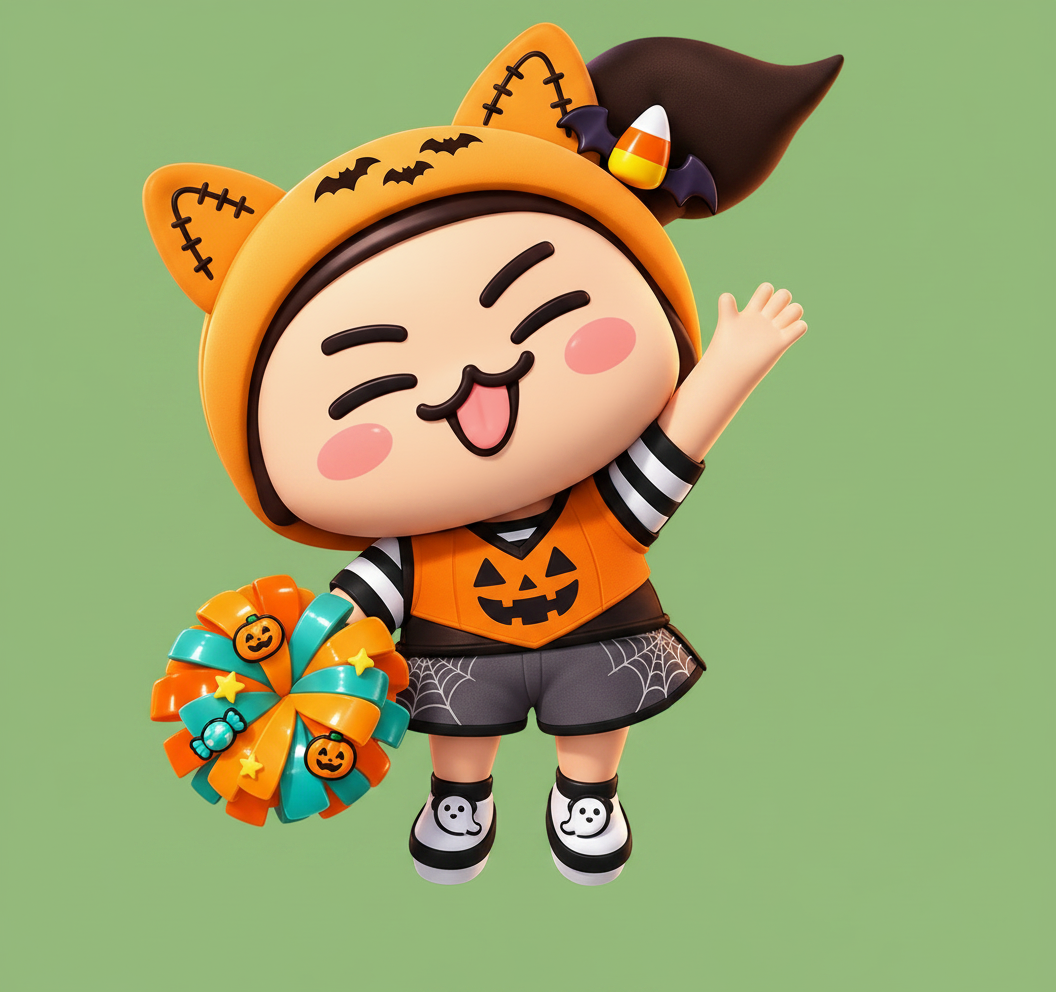
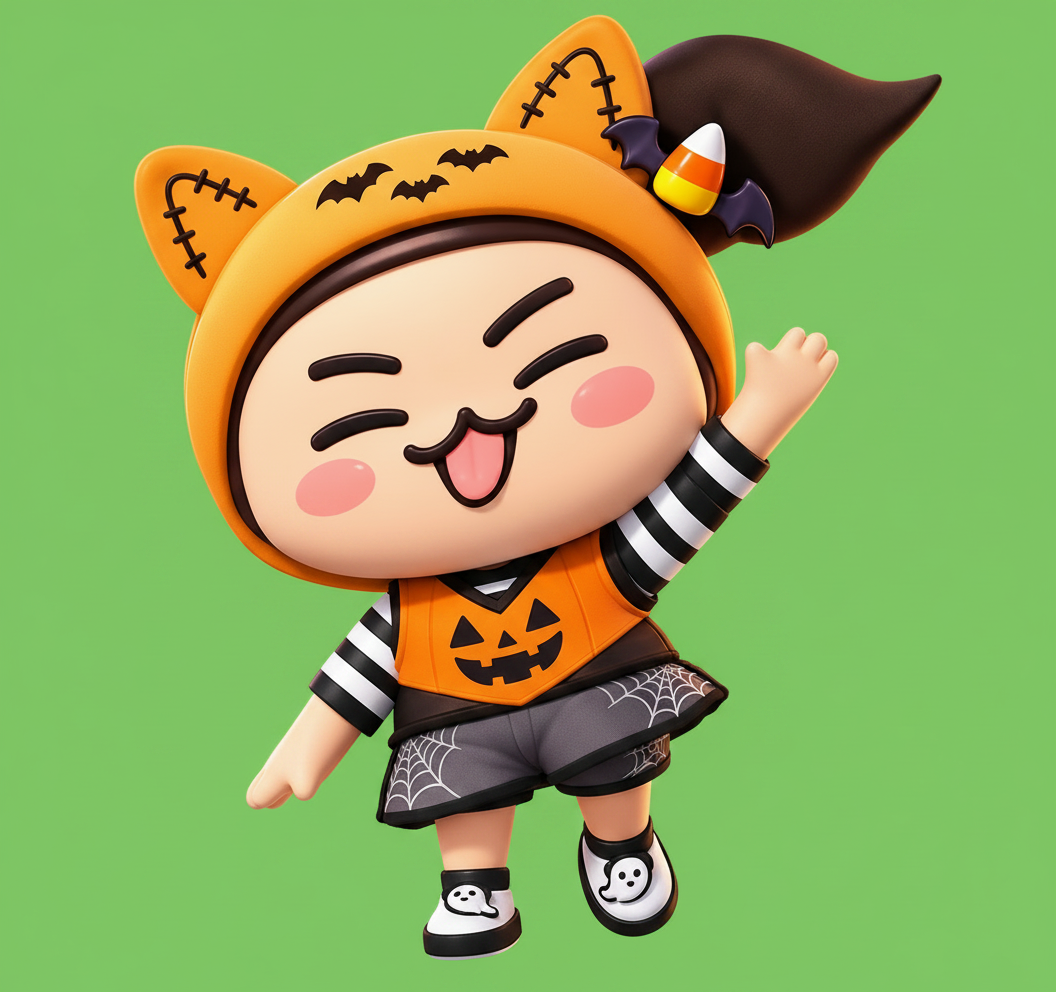
Drop the pom-poms from the poses, which frees the hands and the framing
The pom-poms were the widest part of the silhouette, and on a 9:16 frame
width is what binds, so they were forcing every shot wider than it wanted to
be. They also occupied both hands, which ruled out reaching, receiving or
holding anything. Regenerated the whole set without them: stand, jump,
reach, sit, present, wave and hold2, all with bare empty hands.

Two things the regeneration turned up:
- Naming the background by hex made the model paint "#00B144" into the
  frame. It is described in words now, with text explicitly excluded.
- The shot list can finally act: the doorstep shot reaches, the pump insert
  holds both palms up, and the hero shot raises the "?" bottle overhead.

Also fixes a plate that vanished from every shot: setPose still added the
per-pose `lift` after it was dropped from the table, so the plate's y went
NaN. It defaults to 0.

The product bottle is still composited from the source file and named in no
prompt; the poses ask for empty hands precisely so it can be placed rather
than drawn.

Claude-Session: https://claude.ai/code/session_017oDLcXHW4jPPj9EWyF8qhq

diff --git a/render/lib/charplate.js b/render/lib/charplate.js
@@ -6,17 +6,17 @@
 import * as THREE from 'three';
 
 export const PAL = { skin: 0xFCD9BE };
-const H0 = 3.07;                      // world height of the reference pose
+const H0 = 3.35;   // world height; poses are narrower without the pom-poms
 
 /* per-pose size trim, so the body reads the same when the arms move */
 export const POSES = {
-  source:  { url: '/assets/build/char_hw.png',       k: 1.00, lift: 0.00 },
-  run:     { url: '/assets/poses/cut/run.png',       k: 0.98, lift: 0.00 },
-  jumpbig: { url: '/assets/poses/cut/jumpbig.png',   k: 1.06, lift: 0.00 },
-  present: { url: '/assets/poses/cut/present.png',   k: 1.02, lift: 0.00 },
-  reach:   { url: '/assets/poses/cut/reach.png',     k: 0.96, lift: 0.00 },
-  sit:     { url: '/assets/poses/cut/sit.png',       k: 0.86, lift: 0.00 },
-  stand:   { url: '/assets/poses/cut/stand.png',     k: 0.92, lift: 0.00 }
+  stand:   { url: '/assets/poses/cut/stand.png',   k: 0.92 },
+  jump:    { url: '/assets/poses/cut/jump.png',    k: 1.00 },
+  reach:   { url: '/assets/poses/cut/reach.png',   k: 0.96 },
+  sit:     { url: '/assets/poses/cut/sit.png',     k: 0.80 },
+  present: { url: '/assets/poses/cut/present.png', k: 1.02 },
+  wave:    { url: '/assets/poses/cut/wave.png',    k: 0.96 },
+  hold2:   { url: '/assets/poses/cut/hold2.png',   k: 0.92 }
 };
 
 export async function loadCharacterPlate() {
@@ -48,7 +48,7 @@ export function buildCharacter(poses) {
   const root = new THREE.Group();
   const body = new THREE.Group(); root.add(body);
   const mat = new THREE.MeshBasicMaterial({
-    map: poses.source.tex, transparent: true, depthWrite: false, fog: false,
+    map: poses.stand.tex, transparent: true, depthWrite: false, fog: false,
     alphaTest: 0.02, side: THREE.DoubleSide
   });
   const plate = new THREE.Mesh(new THREE.PlaneGeometry(1, 1), mat);
@@ -60,19 +60,19 @@ export function buildCharacter(poses) {
   const hand = new THREE.Group(); body.add(hand);
   root.userData = { body, plate, mat, shadow, poses, cur: null, hands: [hand, hand],
                     poms: [], arms: [], legs: [] };
-  setPose(root, 'source');
+  setPose(root, 'stand');
   return root;
 }
 
 export function setPose(root, name) {
   const u = root.userData;
-  const p = u.poses[name] || u.poses.source;
+  const p = u.poses[name] || u.poses.stand;
   if (u.cur === name) return;
   u.cur = name;
   u.mat.map = p.tex; u.mat.needsUpdate = true;
   const h = H0 * p.k, w = h * p.w / p.h;
   u.plate.scale.set(w, h, 1);
-  u.plate.position.y = h / 2 + p.lift;
+  u.plate.position.y = h / 2 + (p.lift || 0);
   u.shadow.scale.set(w * 0.5, w * 0.19, 1);
   // the raised open hand in the "present" pose, for a prop to sit in
   u.hands[0].position.set(w * 0.30, h * 0.72, 0.03);

diff --git a/render/scene3d.html b/render/scene3d.html
@@ -308,13 +308,13 @@ function animChar(t,si){
     const drop=pr(lt,0.05,0.62), land=pr(lt,0.58,0.98);
     const idle=Math.max(0,lt-0.88), hop=Math.abs(Math.sin(idle*Math.PI/0.60));
     pos={x:0,y:lerp(9.5,0,eOut4(drop))+(drop>=1?hop*0.60:0),z:-8.0}; ry=0.08;
-    pose=Object.assign(pose,{pose:'source',squash:drop<1?0.28:lerp(-0.52,0,eOut(land))+hop*0.28,
+    pose=Object.assign(pose,{pose:'jump',squash:drop<1?0.28:lerp(-0.52,0,eOut(land))+hop*0.28,
       lean:-0.08+0.05*Math.sin(idle*3.0),headTilt:-0.11,
       armSpread:1.02+0.20*Math.sin(idle*5.2),legTuck:drop<1?0.9:clamp(hop*1.1),armFwd:-0.10});
   } else if(si===1){
     pos={x:lerp(0.6,-0.15,u),y:0,z:lerp(-19.0,-9.2,eIO(u))}; ry=0.05;
     const run=lt*7.2; pos.y=Math.abs(Math.sin(run))*0.28;
-    pose=Object.assign(pose,{pose:'run',squash:0.09*Math.sin(run*2),lean:-0.06,pitch:0.09,headTilt:-0.09,
+    pose=Object.assign(pose,{pose:'jump',squash:0.09*Math.sin(run*2),lean:-0.06,pitch:0.09,headTilt:-0.09,
       armSwing:0.30*Math.sin(run),legSwing:0.60*Math.sin(run),armSpread:0.80});
   } else if(si===2){
     pos={x:-0.60,y:0,z:-11.9}; ry=0.40;
@@ -329,17 +329,17 @@ function animChar(t,si){
   } else if(si===4){
     pos={x:5.30,y:0,z:-7.05}; ry=-0.30;
     const reach=eIO(pr(lt,0.35,1.35));
-    pose=Object.assign(pose,{pose:'reach',lean:-0.10,headTilt:-0.15,headYaw:-0.18,headPitch:0.28,
+    pose=Object.assign(pose,{pose:'hold2',lean:-0.10,headTilt:-0.15,headYaw:-0.18,headPitch:0.28,
       armLA:-0.26,armRA:lerp(1.0,1.62,reach),armRX:lerp(-0.25,-0.95,reach),squash:0.05*Math.sin(lt*3)});
   } else if(si===5){
     pos={x:0,y:0,z:-14.4}; ry=0.0;
     const cyc=(lt%0.92)/0.92, air=Math.sin(cyc*Math.PI); pos.y=air*1.80;
-    pose=Object.assign(pose,{pose:'jumpbig',squash:lerp(-0.40,0.30,clamp(air*1.6)),lean:-0.09+0.06*Math.sin(lt*2.4),
+    pose=Object.assign(pose,{pose:'jump',squash:lerp(-0.40,0.30,clamp(air*1.6)),lean:-0.09+0.06*Math.sin(lt*2.4),
       headTilt:-0.13,armSpread:1.14+0.22*air,armFwd:-0.18*air,legTuck:air*0.85});
   } else if(si===6){
     pos={x:0.02,y:0,z:-13.2}; ry=0.10;
     const b=Math.abs(Math.sin(lt*Math.PI/0.84)); pos.y=b*0.20;
-    pose=Object.assign(pose,{pose:'stand',squash:-0.08+b*0.17,lean:-0.10,headTilt:-0.14,
+    pose=Object.assign(pose,{pose:'wave',squash:-0.08+b*0.17,lean:-0.10,headTilt:-0.14,
       armSpread:0.98+0.18*Math.sin(lt*3.8)});
   } else if(si===7){
     pos={x:HERO_X,y:HERO_TOP,z:HERO_Z}; ry=0.04;

diff --git a/handoff/make_poses.py b/handoff/make_poses.py
@@ -24,17 +24,23 @@ KEEP = (
   "with the black jack-o'-lantern face, the same black-and-white striped sleeves, the same "
   "black shorts with the white cobweb print, the same white sneakers, and the same soft "
   "3D toy-figure shading and proportions. Do not restyle, do not open the eyes, do not "
-  "change any colour. Full body, facing the camera, centred, on a plain flat chroma green "
-  "(#00B140) background with no shadow, no floor and no props other than what is asked."
+  "change any colour. "
+  "REMOVE the pinwheel pom-poms entirely: the character holds nothing at all. Both hands "
+  "are bare, empty, small and rounded in the same toy style, with no object of any kind in "
+  "them and nothing resting against them. "
+  "Full body, facing the camera, centred, on a plain flat bright green screen background "
+  "with no shadow, no floor, no props and absolutely no text, letters, numbers or watermarks."
 )
 
 POSES = {
-  'run':    "Change only the pose: the character is running cheerfully toward the camera, one knee lifted, arms swinging, still holding the two pinwheel pom-poms.",
-  'reach':  "Change only the pose: the character leans forward and reaches one arm down and out toward something on the ground in front of it, head tilted down, the other arm still holding a pinwheel pom-pom.",
-  'stand':  "Change only the pose: the character stands still and upright with both feet on the ground, holding the two pinwheel pom-poms low at its sides.",
-  'present':"Change only the pose: the character stands and raises its right arm high with an open empty hand, palm up, presenting something that is not shown; the left arm holds a pinwheel pom-pom. The raised hand must be empty.",
-  'sit':    "Change only the pose: the character sits with its knees drawn up and both hands resting on its knees, seen from the front.",
-  'jumpbig':"Change only the pose: the character leaps high with both arms thrown up above its head, both pinwheel pom-poms raised, both legs tucked.",
+  'stand':  "Pose: standing upright, both feet on the ground, arms relaxed at its sides, empty hands.",
+  'run':    "Pose: running cheerfully toward the camera, one knee lifted, both arms swinging, empty hands.",
+  'jump':   "Pose: leaping with both arms thrown up above its head, both legs tucked, empty hands.",
+  'reach':  "Pose: leaning forward and reaching one arm down and out toward something on the ground in front of it, head tilted down, the other arm relaxed. Both hands empty.",
+  'present':"Pose: standing, with its right arm stretched straight up high above its head, well above the hood, the open empty palm facing forward as if holding something up for everyone to see; the left arm hangs relaxed at its side. Both hands empty.",
+  'sit':    "Pose: sitting with its knees drawn up and both empty hands resting on its knees, seen from the front.",
+  'wave':   "Pose: standing and waving one raised hand next to its head, the other arm relaxed. Both hands empty.",
+  'hold2':  "Pose: standing with both arms raised in front of its chest, both palms open and facing up side by side, as if about to receive something. Both hands empty.",
 }
 
 def token():
